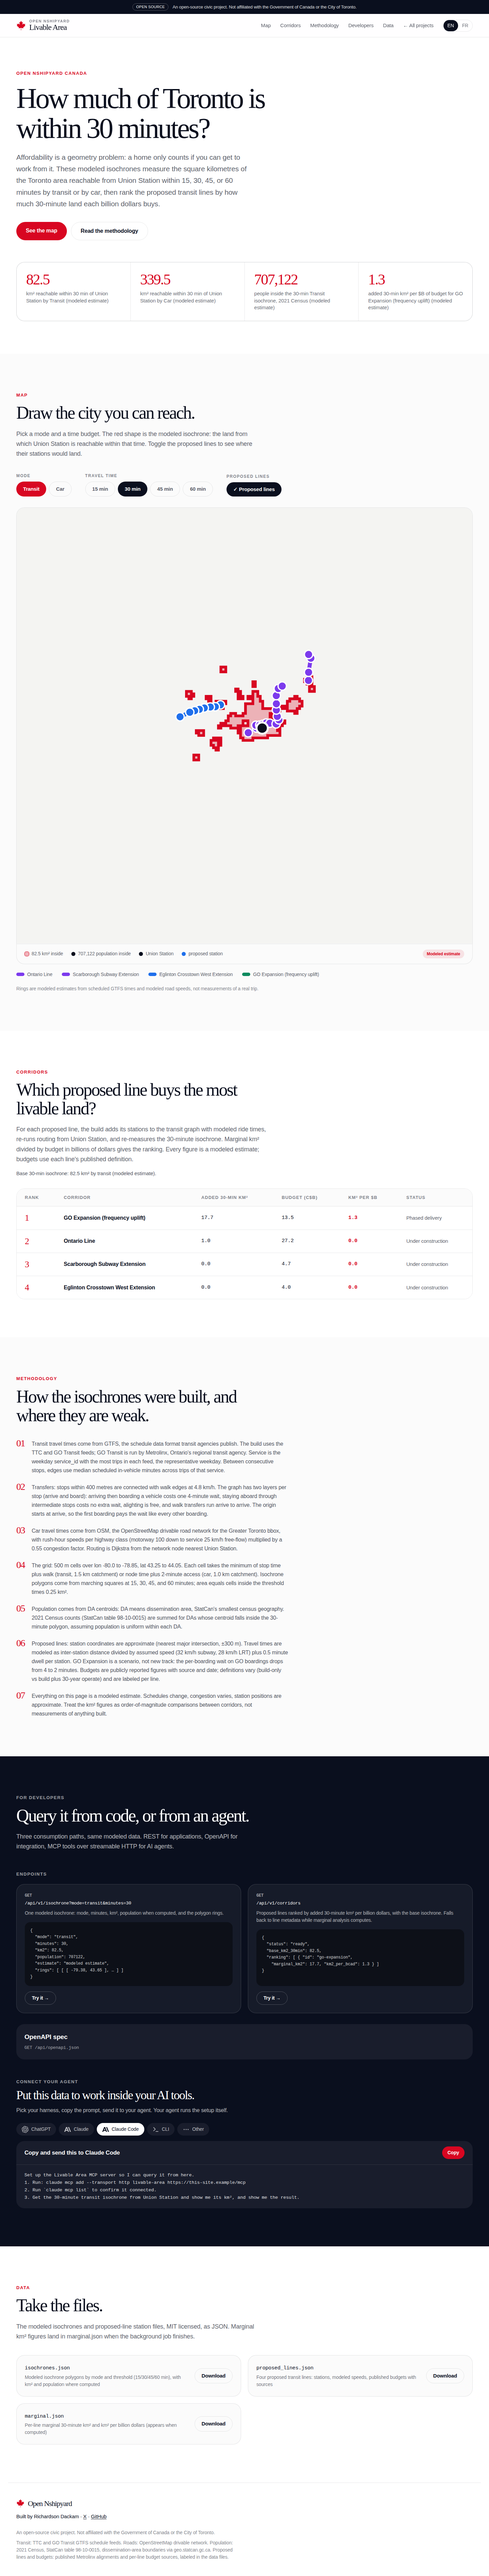
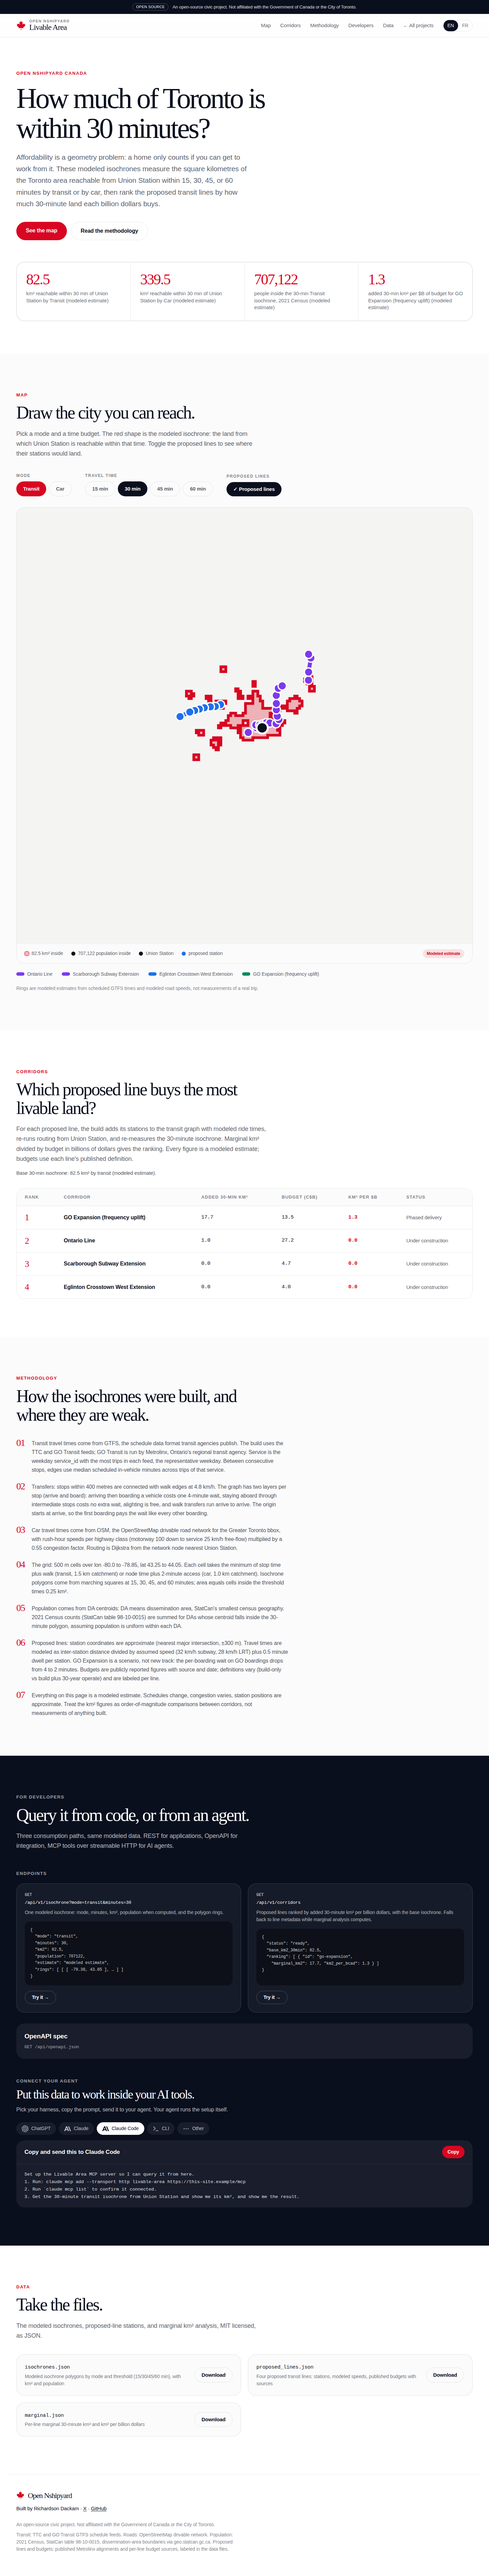
Mobile nav: EN/FR toggle; refreshed screenshots

diff --git a/src/components/chrome.tsx b/src/components/chrome.tsx
@@ -100,6 +100,18 @@ export function Nav() {
             <a href="https://canada.nshipyard.com" className="text-[16px] font-medium">
               ← {t.nav.back}
             </a>
+            <div className="flex items-center gap-2 pt-1">
+              {(["en", "fr"] as const).map((l) => (
+                <button
+                  key={l}
+                  onClick={() => { setLang(l); setOpen(false); }}
+                  className={`rounded-full px-4 py-2 text-[15px] font-medium uppercase ${lang === l ? "bg-ink text-white" : "border border-line text-ink/60"}`}
+                  aria-pressed={lang === l}
+                >
+                  {l}
+                </button>
+              ))}
+            </div>
           </div>
         </div>
       )}
